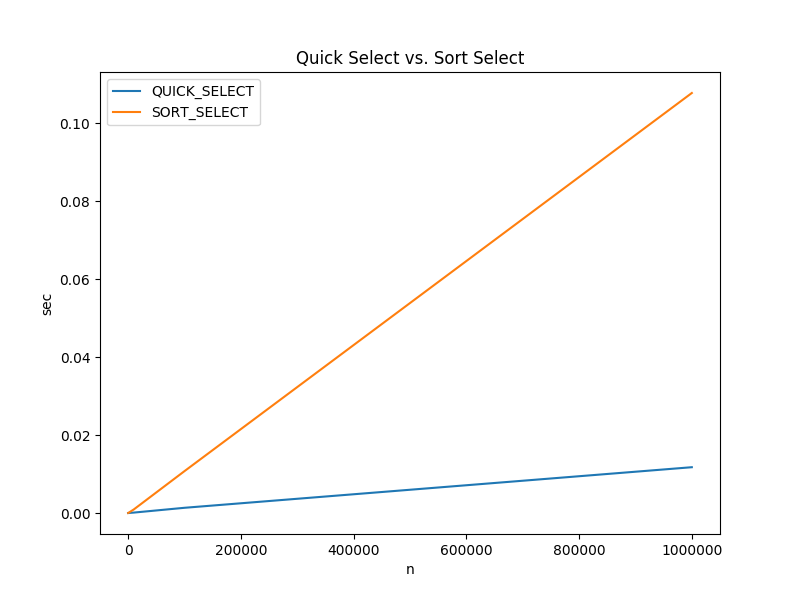
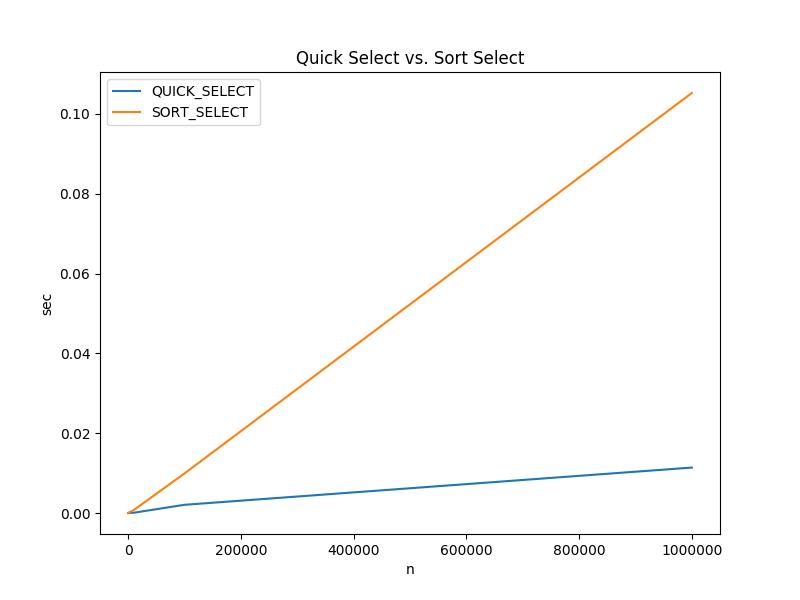
start on quick start docs

diff --git a/quick_select/README.md b/quick_select/README.md
@@ -1,273 +1,57 @@
-# Sorting
+# Quick Select
 
-Typically, formal algorithm courses begin with sorting b/c they provide an easy
-foundation for which to teach the fundamental concepts of asymptotic time
-complexity. It seems fitting to group all these algorithms into a single section
-in order to easily compare and contrast them. This section covers 5 different
-algorithms:
+Quick select determines the nth ranked item in an array without sorting the
+array. This is accomplished by recursively partitioning halves of the array
+until the nth item is placed in the correct position. A typical use is finding
+the nth highest grade in an array.
 
-1) [Bubble Sort](#bubble-sort)
-1) [Insertion Sort](#insertion-sort)
-1) [Selection Sort](#selection-sort)
-1) [Merge Sort](#merge-sort)
-1) [Quick Sort](#quick-sort)
+In the case of finding the highest/lowest value in an array, a simple liner
+array scan will be slightly more efficient.
 
 ## Actual Run Times
 
-The actual run times for sorting various size integer arrays using the C
-implementation of the algorithms is shown below. All data was collected using a
-docker container running on a Surface Book 2 Laptop (Intel Core i7, 16GB RAM).
-Each time value represents the median of 3 separate executions. For details
-about how the calculations were run, see [compare_times.py](c/compare_times.py)
-and [algo_timer.c](c/algo_timer.c). To recreate the data on your machine,
-navigate to the c directory and execute the [time_charts.sh](c/time_charts.sh)
-bash file.
+The actual run times for finding the 5th highest value in an integer arrays
+using the C implementation of the quick sort algorithm and C's qsort built in
+sorting function are shown below.
 
-### Arrays w/ Random Integer Values
+All data was collected using a docker container running on a Surface Book 2
+Laptop (Intel Core i7, 16GB RAM).  Each time value represents the median of 3
+separate executions. For details about how the calculations were run, see
+[compare_times.py](c/compare_times.py) and [algo_timer.c](c/algo_timer.c). To
+recreate the data on your machine, navigate to the c directory and execute the
+[time_charts.sh](c/time_charts.sh) bash file.
 
-![alt text](c/RANDOM.png "RANDOM ARRAY VALUES") 
+![alt text](c/QUICK_SELECT.png "RANDOM ARRAY VALUES") 
 
-|ALGORITHM| n=100 |n=1000 |n=10000 |n=100000 |
---|--|--|--|--|
-|C_QSORT |0.000005 sec|0.000060 sec|0.000799 sec|0.009573 sec|
-|BUBBLE |0.000094 sec|0.003827 sec|0.453658 sec|41.579646 sec|
-|INSERTION |0.000023 sec|0.001044 sec|0.080031 sec|8.820152 sec|
-|SELECTION |0.000038 sec|0.000939 sec|0.082957 sec|9.374885 sec|
-|QUICK |0.000010 sec|0.000124 sec|0.001693 sec|0.020595 sec|
-|MERGE |0.000007 sec|0.000118 sec|0.001249 sec|0.015185 sec|
+|ALGORITHM| n=100 |n=1000 |n=10000 |n=100000 |n=1000000 |
+--|--|--|--|--|--|
+|QUICK_SELECT |0.000003 sec|0.000028 sec|0.000073 sec|0.002056 sec|0.011387 sec|
+|SORT_SELECT |0.000007 sec|0.000060 sec|0.000740 sec|0.009913 sec|0.105244 sec|
 
-Key Takeaways: 
-- *Quick*, *Merge*, and *C's qsort* all perform fairly consistently regardless of
-    the order of the input array.
-- *Bubble*, *Insertion*, and *Selection* perform well when the input size is
-    low; however, the run time increases exponentially as the input size
-    increases
-- *Merge* performs slightly better than *Quick*, however, it has much higher
-    memory requirements.
+
+### Asymptotic Time Complexity
+O(n) *on average*
+
+``` pseudo
+select:
+    // side effect: rearranges the values in A
+    A = input array
+    nth = the nth highest value in find
+
+    if length of A <= 1:
+        return A[0]
+
+    pivot = partition(nth, A)
+
+    if pivot == nth:
+        return A[nth]
+
+    if pivot < nth:
+        return select(nth - pivot, A[pivot thru len of A])
+
+    return select(nth, A[0 thru pivot]
     
-### Arrays w/ Pre-Sorted Values
-
-![alt text](c/SORTED.png "SORTED ARRAY VALUES") 
-
-|ALGORITHM| n=100 |n=1000 |n=10000 |n=100000 |
---|--|--|--|--|
-|C_QSORT |0.000001 sec|0.000016 sec|0.000178 sec|0.002445 sec|
-|BUBBLE |0.000000 sec|0.000002 sec|0.000016 sec|0.000158 sec|
-|INSERTION |0.000002 sec|0.000013 sec|0.000129 sec|0.001444 sec|
-|SELECTION |0.000009 sec|0.000848 sec|0.082737 sec|9.032020 sec|
-|QUICK |0.000027 sec|0.000093 sec|0.001232 sec|0.015116 sec|
-|MERGE |0.000003 sec|0.000068 sec|0.000369 sec|0.004767 sec|
-
-Key Takeaways of pre-sorted arrays: 
-- *Bubble* clearly performs best
-- *Insertion* outperforms *Selection* by a wide margin (opposite of reverse
-    sorted results)
-
-### Arrays w/ Reverse Sorted Values
-
-![alt text](c/REVERSED.png "REVERSED ARRAY VALUES") 
-
-|ALGORITHM| n=100 |n=1000 |n=10000 |n=100000 |
---|--|--|--|--|
-|C_QSORT |0.000002 sec|0.000019 sec|0.000223 sec|0.002760 sec|
-|BUBBLE |0.000044 sec|0.004318 sec|0.429120 sec|48.229245 sec|
-|INSERTION |0.000031 sec|0.002819 sec|0.169636 sec|17.977106 sec|
-|SELECTION |0.000013 sec|0.000995 sec|0.094138 sec|10.214144 sec|
-|QUICK |0.000008 sec|0.000107 sec|0.001442 sec|0.017348 sec|
-|MERGE |0.000004 sec|0.000040 sec|0.000475 sec|0.005245 sec|
-
-Key Takeaways of reverse arrays: 
-- *Bubble* is clearly the worst performer
-- *Selection* outperforms *Insertion* by a wide margin (opposite of
-    pre-sorted results)
-
-## Bubble Sort
-
-Bubble sort is the easiest to implement but is typically a poor performer when
-the values in the input array are randomly sorted. At the extremes, bubble sort
-performs better than all other sorting algorithms when the input is pre-sorted
-and worst than all others when the input is reverse sorted.
-
-### Asymptotic Time Complexity
-O(n^2)
-
-``` pseudo
-sort:
-    // side effect: rearranges the values in A
-    A = input array
-    
-    unsorted_to = num items in A - 1
-    sorted = false
-    
-    while sort is false:
-        sorted = true
-
-        for i = 0 to unsorted_to:
-            if (A[i] > A[i + 1]:
-                swap A[i] and A[i+1]
-                sorted = false
-
-         usorted_to -= 1
-```
-
-## Insertion Sort
-Like bubble sort, insertion sort performs very well when the input is
-pre-sorted. However, it performs considerably better than bubble sort when the
-input is either randomly or reverse sorted. Although considerably better than
-bubble sort, it's performance is still abysmal compared to quick and merge sort
-for large inputs.
-
-### Asymptotic Time Complexity
-O(n^2)
-
-``` pseudo
-sort:
-    // side effect: rearranges the values in A
-    A = input array
-
-    for i = 0 to num of items in A:
-        open_index = i
-        temp = A[i]
-
-        for j = i - 1 to 0:
-            if temp > A[j]:
-                shift A[j] to the right one position
-                open_index += 1
-            else:
-                end inner loop
-                
-        A[open_index] = temp
-```
-
-## Selection Sort
-Selection sort is essentially the opposite of insertion sort in the way it
-works. Insertion starts at the left side of the array and selection starts at
-the right. It performs best when the array is reverse sorted. However, it does
-not perform well compared to any other algorithm case.
-
-### Asymptotic Time Complexity
-O(n^2)
-
-``` pseudo
-sort:
-    // side effect: rearranges the values in A
-    A = input array
-
-    for i = 0 to num of items in A - 1:
-        lowest = A[i]
-
-        for j = i + 1 to num of items in A:
-            if lowest > A[j]:
-                lowest = A[j]
-
-        swap lowest and A[i]
-```
-
-## Merge Sort
-
-Merge sort is a classic divide and conquer algorithm. It splits an array in
-half, recursively sorts each half, and finally merges them together. This
-algorithm has excellent performance but has higher memory usage requirements
-because it generates an entirely new array instead of rearranging existing
-values.
-
-### Asymptotic Time Complexity
-O(n log(2, n))
-
-### Pseudo Code
-
-``` pseudo
-sort:
-    A = input array
-    returns: New array consisting of sorted values
-
-    if length of A == 1:
-        return A
-
-    A1 = first half of A
-    A2 = second half of A
-
-    sort(A1)
-    sort(A2)
-
-    return merge(A1, A2)
-
-merge:
-    A1 = sorted array
-    A2 = sorted array
-    returns: new array with values merged from A1 and A1
-
-    i = 1
-    j = 1
-
-    for k = 1 to n
-        if A1[i] < A2[j]
-            B[k] = A1[i]
-            i++
-        else
-            B[k] = A2[j]
-            j++
-
-    return B
-            
-```
-
-## Quick Sort
-
-Sorting algorithm that is prevalent in practice. Although it has the same
-runtime on average as merge sort, it will execute faster due to reduced memory
-requirements. Additionally, it is far easier to implement than quick sort.
-
-One important consideration is the implementation of Choose Pivot. Choosing a
-pivot element that represents the median value in the array is ideal. However,
-the overhead associated with calculating the median renders the approach
-ineffective. There are mathematical proofs that demonstrate choosing a pivot
-point at random will ensure O(n log(2, n)) on average.
-
-### Asymptotic Time Complexity
-O(n log(2, n)) _on average_
-
-### Pseudo Code
-
-``` pseudo
-sort:
-    // side effect: rearranges the values in A
-    A = input array
-    n = length of A
-
-    if n <= 1:
-        return
-
-    pivot = choose_pivot(n)
-    swap A[0] and A[pivot]
-
-    pivot_index = partition(A[0])
-
-    // The array is never copied, all swaps happen in place.
-    // Recursive calls pass a reference to a portion of the array.
-    sort(A[0 thru pivot_index - 1])
-    sort(A[pivot_index + 1 thru n])
-
 partition:
-    // side effects:
-    // - All items in A that are less than the value at A[0] are before A[return value]
-    // - All items in A that are greater than the value at A[0] are moved after A[return value]
-    // - The value at A[0] is moved to A[return value]
-    // Assumption: A[0] is the value to partition aroundk
-    returns: new position of the value at A[0] after the partition
-    A = input array
-    n = number of elements to partition around
-
-    index = 1
-    for i = 1 to n:
-        if A[i] < A[0]:
-            swap A[i] and A[index]
-            increment index
-
-    if index - 1 > 0:
-        swap A[0] and A[index]
-
-    return index
 
 choose_pivot:
     returns: ideal index to partition on
